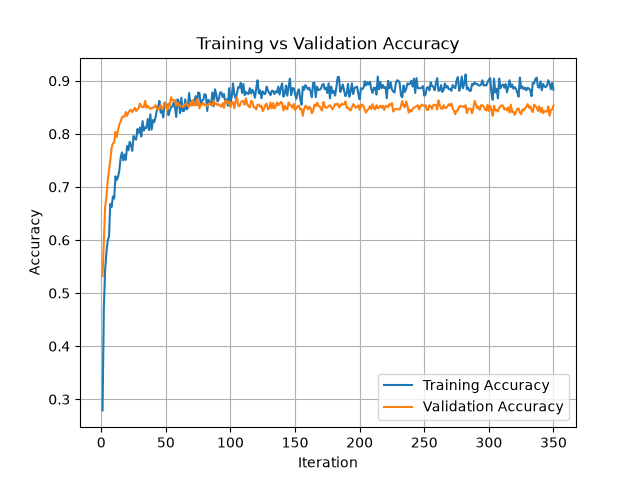
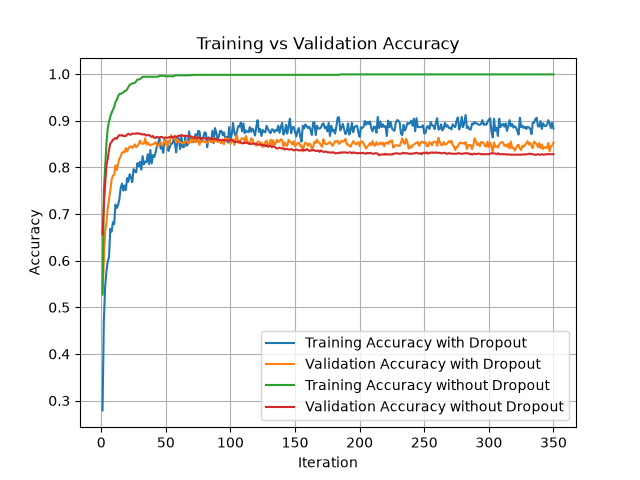
Added one comment, adjusted main() and graph to plot runs with and without dropout

diff --git a/week8/part3_dropout.py b/week8/part3_dropout.py
@@ -58,6 +58,9 @@ def train_dropout(X_train, Y_train, X_val, Y_val, iterations=350, dropout = True
 
             # ---- Backward ----
             delta_2 = layer_2 - Y_train[i:i+1]
+            # make sure not to modify any weights by masked values!
+            # If they didn't contribute to the final run, don't modify them
+            # as if they did!
             delta_1 = delta_2.dot(W_1_2.T) * relu_d(layer_1) * mask # mask is all 1s if dropout is false, else it's the dropout list
 
             W_1_2 -= alpha * layer_1.T.dot(delta_2)
@@ -74,16 +77,20 @@ def train_dropout(X_train, Y_train, X_val, Y_val, iterations=350, dropout = True
     return W_0_1, W_1_2, train_hist, val_hist
 
 if __name__ == "__main__":
-    W_0_1, W_1_2, train_hist, val_hist = train_dropout(X_train, Y_train, X_val, Y_val, iterations)
+    _, _, train_hist_dropout, val_hist_dropout = train_dropout(X_train, Y_train, X_val, Y_val, iterations, True)
+    _, _, train_hist_control, val_hist_control = train_dropout(X_train, Y_train, X_val, Y_val, iterations, False)
+        
 
     # Find the best validation accuracy
-    best_iteration = np.argmax(val_hist) + 1
-    best_val_acc = val_hist[best_iteration - 1]
-    print(f"Validation accuracy peaked at iteration {best_iteration} with accuracy {best_val_acc:.4f}")
+#    best_iteration = np.argmax(val_hist) + 1
+#    best_val_acc = val_hist[best_iteration - 1]
+#    print(f"Validation accuracy peaked at iteration {best_iteration} with accuracy {best_val_acc:.4f}")
 
     # ---- Plot ----
-    plt.plot(range(1, iterations + 1), train_hist, label="Training Accuracy")
-    plt.plot(range(1, iterations + 1), val_hist, label="Validation Accuracy")
+    plt.plot(range(1, iterations + 1), train_hist_dropout, label="Training Accuracy with Dropout")
+    plt.plot(range(1, iterations + 1), val_hist_dropout, label="Validation Accuracy with Dropout")
+    plt.plot(range(1, iterations + 1), train_hist_control, label="Training Accuracy without Dropout")
+    plt.plot(range(1, iterations + 1), val_hist_control, label="Validation Accuracy without Dropout")
 
     plt.xlabel("Iteration")
     plt.ylabel("Accuracy")
